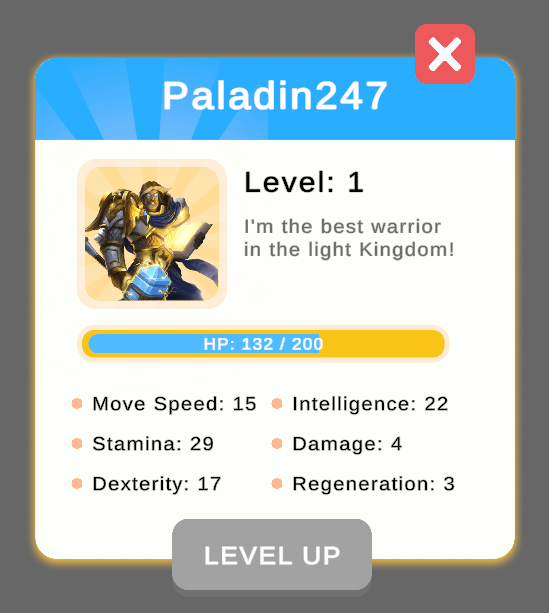
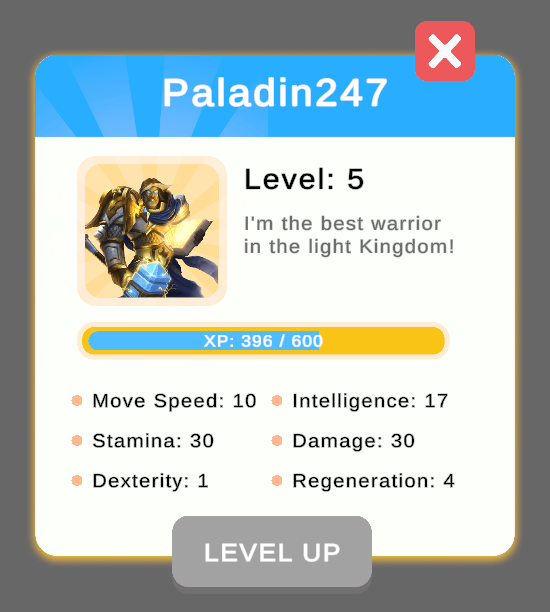
fixed PresentationModelPlayerLevel

diff --git a/Assets/Game/Scripts/GameSystem/Popups/CharacterPopupPresentationModel/PresentationModelPlayerLevel.cs b/Assets/Game/Scripts/GameSystem/Popups/CharacterPopupPresentationModel/PresentationModelPlayerLevel.cs
@@ -13,7 +13,7 @@ namespace PresentationModel
         public event Action OnAllowLevelUp;
         public event Action OnForbidLevelUp;
 
-        private string _localizationHP = "HP";
+        private string _localizationHP = "XP";
         private string _localizationLevel = "Level";
 
 
